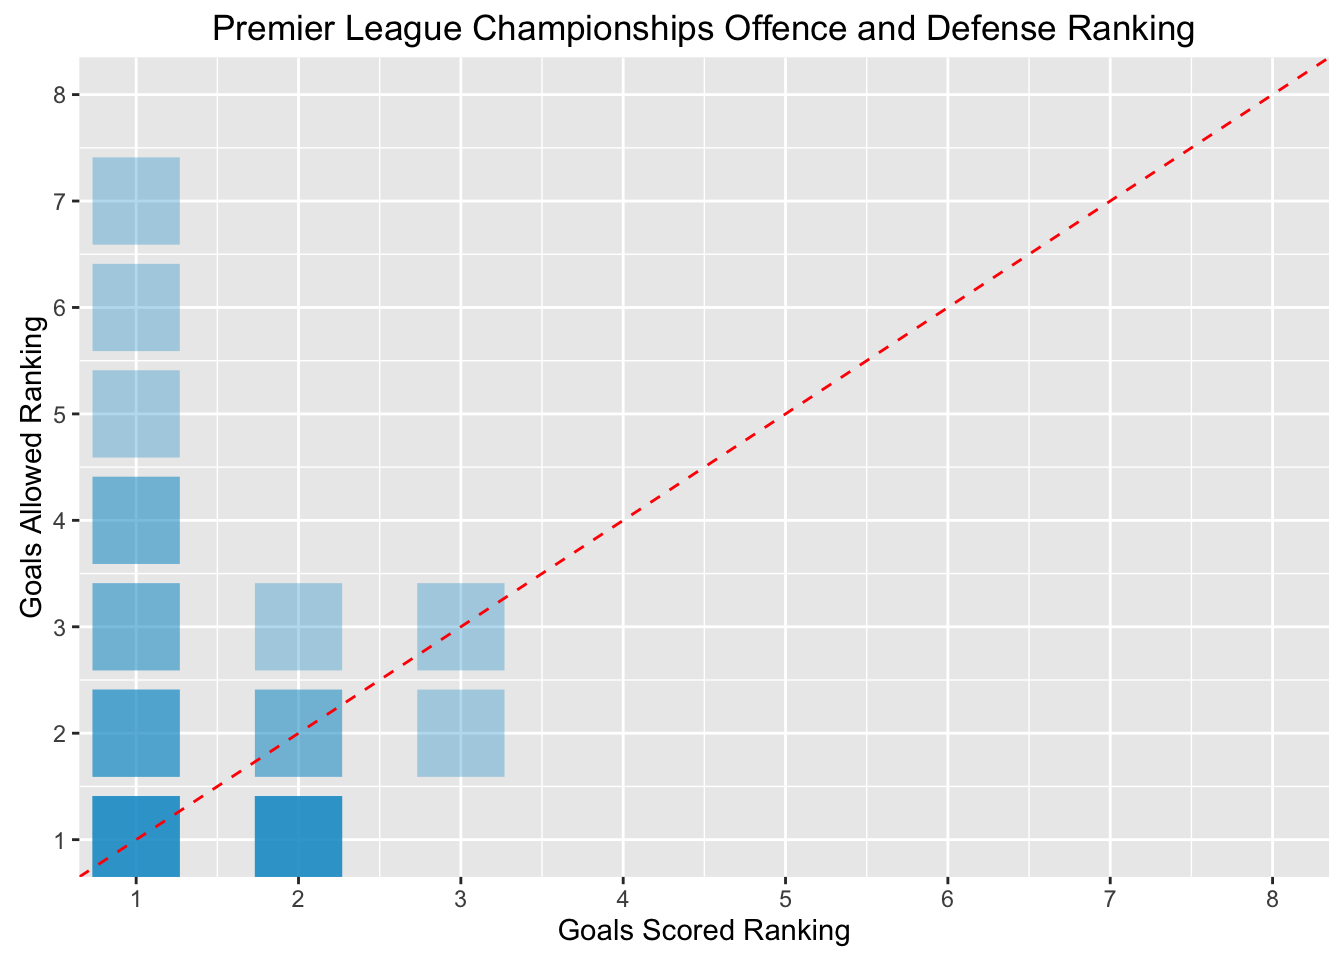
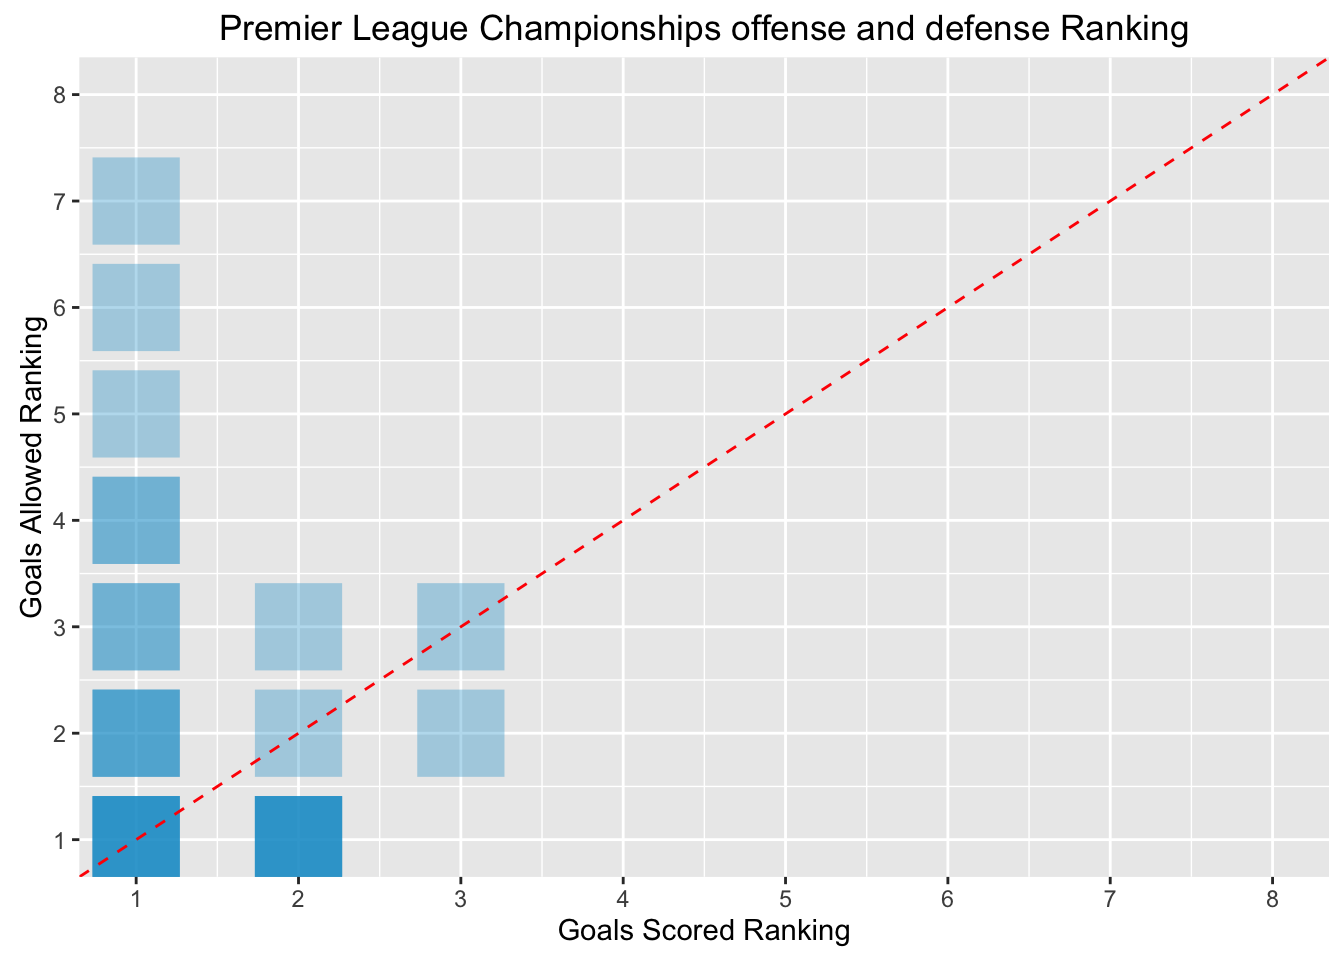
finish premier league one

Changed region(s): [[0.1562, 0.0, 0.6562, 0.0625], [0.6875, 0.0, 0.9062, 0.0625], [0.1875, 0.7188, 0.2812, 0.8125]]

diff --git a/2017/05/optimal-stopping-in-speed-dating/index.html b/2017/05/optimal-stopping-in-speed-dating/index.html
@@ -28,15 +28,15 @@
     
 
     
-    <meta name="description" content="I came across this question when I was reading the first chapter of the book ‘Algorithms to Live By’. It’s a famous problem that uses the optimal stopping theory. The problem has been studied extensively in the fields of statics, decision theory and applied probability. It’s also known as secretary problem, marriage problem and the best choice problem.In any optimal problem, the crucial dilemma is not which option to pick, but how many options to even consider.">
-    <meta property="og:description" content="I came across this question when I was reading the first chapter of the book ‘Algorithms to Live By’. It’s a famous problem that uses the optimal stopping theory. The problem has been studied extensively in the fields of statics, decision theory and applied probability. It’s also known as secretary problem, marriage problem and the best choice problem.In any optimal problem, the crucial dilemma is not which option to pick, but how many options to even consider.">
+    <meta name="description" content="I came across this question when I was reading the first chapter of the book ‘Algorithms to Live By’. It’s a famous problem that uses the optimal stopping theory. The problem has been studied extensively in the fields of statistics, decision theory and applied probability. It’s also known as secretary problem, marriage problem and the best choice problem.In any optimal problem, the crucial dilemma is not which option to pick, but how many options to even consider.">
+    <meta property="og:description" content="I came across this question when I was reading the first chapter of the book ‘Algorithms to Live By’. It’s a famous problem that uses the optimal stopping theory. The problem has been studied extensively in the fields of statistics, decision theory and applied probability. It’s also known as secretary problem, marriage problem and the best choice problem.In any optimal problem, the crucial dilemma is not which option to pick, but how many options to even consider.">
     <meta property="og:type" content="blog">
     <meta property="og:title" content="Optimal Stopping in Speed Dating">
     <meta property="og:url" content="/2017/05/optimal-stopping-in-speed-dating/">
     <meta property="og:site_name" content="Yang&#39;s Den">
     <meta name="twitter:card" content="summary">
     <meta name="twitter:title" content="Yang&#39;s Den">
-    <meta name="twitter:description" content="I came across this question when I was reading the first chapter of the book ‘Algorithms to Live By’. It’s a famous problem that uses the optimal stopping theory. The problem has been studied extensively in the fields of statics, decision theory and applied probability. It’s also known as secretary problem, marriage problem and the best choice problem.In any optimal problem, the crucial dilemma is not which option to pick, but how many options to even consider.">
+    <meta name="twitter:description" content="I came across this question when I was reading the first chapter of the book ‘Algorithms to Live By’. It’s a famous problem that uses the optimal stopping theory. The problem has been studied extensively in the fields of statistics, decision theory and applied probability. It’s also known as secretary problem, marriage problem and the best choice problem.In any optimal problem, the crucial dilemma is not which option to pick, but how many options to even consider.">
     
     
 
@@ -229,7 +229,7 @@
           
           <div class="post-content markdown" itemprop="articleBody">
             <div class="main-content-wrap">
-              <p>I came across this question when I was reading the first chapter of the book ‘Algorithms to Live By’. It’s a famous problem that uses the optimal stopping theory. The problem has been studied extensively in the fields of statics, decision theory and applied probability. It’s also known as secretary problem, marriage problem and the best choice problem.In any optimal problem, the crucial dilemma is not which option to <em>pick</em>, but how many options to even <em>consider</em>. The problem proved to be a near-perfect mathematical puzzle: simple to explain, devilish to solve, succinct in its answer, and intriguing in its implications. I am going to present this problem under the speed dating scenario for easier understanding and use simulation to find the answer.</p>
+              <p>I came across this question when I was reading the first chapter of the book ‘Algorithms to Live By’. It’s a famous problem that uses the optimal stopping theory. The problem has been studied extensively in the fields of statistics, decision theory and applied probability. It’s also known as secretary problem, marriage problem and the best choice problem.In any optimal problem, the crucial dilemma is not which option to <em>pick</em>, but how many options to even <em>consider</em>. The problem proved to be a near-perfect mathematical puzzle: simple to explain, devilish to solve, succinct in its answer, and intriguing in its implications. I am going to present this problem under the speed dating scenario for easier understanding and use simulation to find the answer.</p>
 <!--more-->
 <div id="introduction" class="section level2">
 <h2>Introduction</h2>
@@ -282,7 +282,7 @@ qplot(x = simulations, y = result, geom = c(&quot;point&quot;, &quot;line&quot;)
 </div>
 <div id="whence-37" class="section level2">
 <h2>Whence 37% ?</h2>
-<p><em>This part is from the book Algorithms to Live By by Brian Christian and Tom Griffiths</em></p>
+<p><em>This part is from the book “Algorithms to Live By” by Brian Christian and Tom Griffiths</em></p>
 <p>In your search for a lover, there are two ways you can fail: stopping earily, you leave the best choice undiscovered. When you stop too late, you hold out for a better choice who doesn’t exist. The optimal strategy will clearly require finding the right balance between the two, walking the tightrope between looking too much and not enough.</p>
 <p>Intuitively, there are a few potential strategies. For instance, making an offer the third time an applicant trumps eveyone seen so far- or maybe the fourth time. Or perhaps taking the next best-yet applicant to come along after a long drought. But as it happens, neither of these relatively sensible strategies comes out on top. Instead, the optimal solution takes the form of what we’ll call the <strong>Look-Then-Leap-Rule</strong>. You set a predetermined amount of time for “looking” - that is, exploring your options, gathering data - in which you categorically don’t choose anyone, no matter how impressive. After that point, you enter the “leap” phase, prepared to instantly commit to anyone who outshines the best applicant you saw in the look phase.</p>
 </div>
@@ -521,7 +521,7 @@ qplot(x = simulations, y = result, geom = c(&quot;point&quot;, &quot;line&quot;)
                   May 5, 2017
                 </span>
               </span>
-              <div class="media-content hide-xs font-merryweather">I came across this question when I was reading the first chapter of the book ‘Algorithms to Live By’. It’s a famous problem that uses the optimal stopping theory. The problem has been studied extensively in the fields of statics, decision theory and applied probability. It’s also known as secretary problem, marriage problem and the best choice problem.In any optimal problem, the crucial dilemma is not which option to pick, but how many options to even consider.</div>
+              <div class="media-content hide-xs font-merryweather">I came across this question when I was reading the first chapter of the book ‘Algorithms to Live By’. It’s a famous problem that uses the optimal stopping theory. The problem has been studied extensively in the fields of statistics, decision theory and applied probability. It’s also known as secretary problem, marriage problem and the best choice problem.In any optimal problem, the crucial dilemma is not which option to pick, but how many options to even consider.</div>
             </div>
             <div style="clear:both;"></div>
             <hr>

diff --git a/2017/04/an-analysis-of-premier-league-in-r/index.html b/2017/04/an-analysis-of-premier-league-in-r/index.html
@@ -347,9 +347,9 @@ pl_rank  %&gt;%
 </div>
 <div id="analysis" class="section level2">
 <h2>Analysis</h2>
-<div id="could-defense-win-championships" class="section level3">
-<h3>Could Defense win championships ?</h3>
-<p>In 2004, Greece won the European Championship with a defense first approach. They did manage to score in the process, but it was their defense that allowed them to claim the title. In addition, <strong>Jose Mourinho</strong> helped Inter Milan to win the 2010 Champions League by employing the so called ‘parking the bus’ strategy, avoiding attacking play and let all team chasing the ball in their half-court. Clearly, All of the examples I cited are in the tournament game. So I want to learn that if it’s possible for a team with an average offensive ability and outstanding defensive ability to win the premier league ?</p>
+<div id="could-defense-help-a-team-to-win-championships" class="section level3">
+<h3>Could defense help a team to win championships ?</h3>
+<p>In 2004, Greece won the European Championship with a defense first approach. They did manage to score in the process, but it was their defense that allowed them to claim the title. In addition, <strong>Jose Mourinho</strong> helped Inter Milan to win the 2010 Champions League by employing the so called ‘parking the bus’ strategy, avoiding attacking play and let all team chasing the ball in their half-court. Clearly, All of the examples I cited are in the tournament game. So I want to learn that if it’s possible for a team without explosive strikers but outstanding defensive still able to win the premier league ?</p>
 <p>I use the ranking of <strong>total goals a team has scored</strong> to evaluate the ability of its offense, In the same way, I used the ranking of <strong>total goals a team have been scored</strong> to evaluate the ability its defense</p>
 <pre class="r"><code>pl_team_overview &lt;- pl %&gt;%
            mutate(home_team_point = ifelse(hgoal &gt; vgoal, 3, ifelse(hgoal == vgoal, 1, 0))) %&gt;%
@@ -370,16 +370,16 @@ temp1$GA_Away &lt;- temp2$GA_Away
 pl_team_overview &lt;- temp1 %&gt;%
            mutate(total_points = home_points + away_points) %&gt;%
            mutate(GF = GF_Home + GF_Away) %&gt;%
-           mutate(GA = GA_Home + GA_Away)
+           mutate(GA = GA_Home + GA_Away) %&gt;%
+           mutate(goaldiff = GF - GA)
 
 pl_team_overview &lt;- pl_team_overview %&gt;%
            rename(Team = home) %&gt;%
            group_by(Season) %&gt;%
-           mutate(GF_ranking = rank(-GF, ties.method = &quot;min&quot;), GA_ranking = rank(GA, ties.method = &quot;min&quot;), points_ranking =
-                  rank(-total_points, ties.method = &quot;min&quot;))
+           mutate(GF_ranking = rank(-GF, ties.method = &quot;min&quot;), GA_ranking = rank(GA, ties.method = &quot;min&quot;), points_ranking = order(order(-total_points, -goaldiff)))
 
 
-# Plot the Offense and Defense Ranking of the Championship Team
+# Plot the offense and defense Ranking of the Championship Team
 pl_team_overview %&gt;%
                   filter(points_ranking == 1) %&gt;%
                   ggplot(aes(x = GF_ranking, y = GA_ranking)) +
@@ -387,16 +387,33 @@ pl_team_overview %&gt;%
                   geom_abline(intercept = 0, slope = 1, color=&quot;red&quot;, linetype=&quot;dashed&quot;) +
                   scale_x_continuous(name=&quot;Goals Scored Ranking&quot;, limits=c(1, 8), breaks = seq(1,8,1)) +
                   scale_y_continuous(name=&quot;Goals Allowed Ranking&quot;, limits=c(1, 8), breaks = seq(1,8,1)) +
-                  ggtitle(&#39;Premier League Championships Offence and Defense Ranking&#39;)</code></pre>
+                  ggtitle(&#39;Premier League Championships offense and defense Ranking&#39;)</code></pre>
 <p><img src="https://songyang0716.github.io/post/premier_league_analysis_files/figure-html/unnamed-chunk-5-1.png" width="672" /></p>
-<p>From the above plot, I noticed that most of the points cluster in the upper left part of the plot, which indicates all of past premier league championship teams at least have the top 3 offensive ability, on the other hand, their defensive ability may not be prestigious (Top 7)</p>
+<p>From the above plot, I noticed that most of the points cluster in the upper left part of the plot, which indicates all of past premier league championship teams at least have the top 3 offense, on the other hand, their defensive ability may not be prestigious (Top 7)</p>
 </div>
-<div id="could-defense-avoid-relegation" class="section level3">
-<h3>Could Defense avoid relegation ?</h3>
+<div id="could-defense-help-a-team-to-avoid-relegation" class="section level3">
+<h3>Could defense help a team to avoid relegation ?</h3>
+<p>Surviving Premier League relegation has always been lucrative, considering that teams staying afloat can retain around 100 million for the next season. Still, not eveyone can avoid the drop. So my question is that is it possible for a team with slightly above average defense but unproductive offense ensure survival ?</p>
+<pre class="r"><code># Plot the offense and defense Ranking of the Relegation Team
+relegation_team &lt;- pl_team_overview %&gt;%
+                          filter((Season %in% (1995:2016) &amp; points_ranking &gt;= 18) |
+                          (Season == 1992 &amp; points_ranking &gt;= 20) |
+                          (Season == 1993 &amp; points_ranking &gt;= 20) |
+                          (Season == 1994 &amp; points_ranking &gt;= 19)) %&gt;%
+                          select(Season, Team, GF_ranking, GA_ranking) %&gt;%
+                        rename(Offense = GF_ranking, Defense = GA_ranking)
+
+# Convert the dataframe from wide to long using tidyr package
+relegation_team_long &lt;- gather(relegation_team, Offense_or_Defense, ranking, Offense, Defense)
+
+relegation_team_long %&gt;%
+                ggplot(aes(x = ranking, fill = Offense_or_Defense)) +
+                geom_density(alpha = 0.4) +
+                scale_x_continuous(name=&quot;Ranking&quot;, limits=c(1, 22), breaks = seq(1,20,1)) +
+                ggtitle(&#39;Premier League Relegation Team&#39;)</code></pre>
+<p><img src="https://songyang0716.github.io/post/premier_league_analysis_files/figure-html/unnamed-chunk-6-1.png" width="672" /></p>
+<p>From the above plot, Relegation teams always did worse in both offense and defense side. In addition, I notice that defense has higher density in the lower ranking side of the plot, which infers the relegation teams have lower average defense ranking than offense ranking. However, the difference is not significant. On the other hand, The basic lesson is that competence on both offense and defense with a slightly above average performance in one of the two areas (ranking in top 8) is enough to gurantee survival</p>
 </div>
-</div>
-<div id="conclusion" class="section level2">
-<h2>Conclusion</h2>
 </div>
 
               
@@ -633,7 +650,7 @@ pl_team_overview %&gt;%
                   May 5, 2017
                 </span>
               </span>
-              <div class="media-content hide-xs font-merryweather">I came across this question when I was reading the first chapter of the book ‘Algorithms to Live By’. It’s a famous problem that uses the optimal stopping theory. The problem has been studied extensively in the fields of statics, decision theory and applied probability. It’s also known as secretary problem, marriage problem and the best choice problem.In any optimal problem, the crucial dilemma is not which option to pick, but how many options to even consider.</div>
+              <div class="media-content hide-xs font-merryweather">I came across this question when I was reading the first chapter of the book ‘Algorithms to Live By’. It’s a famous problem that uses the optimal stopping theory. The problem has been studied extensively in the fields of statistics, decision theory and applied probability. It’s also known as secretary problem, marriage problem and the best choice problem.In any optimal problem, the crucial dilemma is not which option to pick, but how many options to even consider.</div>
             </div>
             <div style="clear:both;"></div>
             <hr>

diff --git a/index.html b/index.html
@@ -235,7 +235,7 @@
     </div>
     <div class="postShorten-excerpt" itemprop="articleBody">
       <p>
-        I came across this question when I was reading the first chapter of the book ‘Algorithms to Live By’. It’s a famous problem that uses the optimal stopping theory. The problem has been studied extensively in the fields of statics, decision theory and applied probability. It’s also known as secretary problem, marriage problem and the best choice problem.In any optimal problem, the crucial dilemma is not which option to pick, but how many options to even consider.
+        I came across this question when I was reading the first chapter of the book ‘Algorithms to Live By’. It’s a famous problem that uses the optimal stopping theory. The problem has been studied extensively in the fields of statistics, decision theory and applied probability. It’s also known as secretary problem, marriage problem and the best choice problem.In any optimal problem, the crucial dilemma is not which option to pick, but how many options to even consider.
         <br>
         <a href="https://songyang0716.github.io/2017/05/optimal-stopping-in-speed-dating/" class="postShorten-excerpt_link link">Continue reading</a>
         
@@ -472,7 +472,7 @@
                   May 5, 2017
                 </span>
               </span>
-              <div class="media-content hide-xs font-merryweather">I came across this question when I was reading the first chapter of the book ‘Algorithms to Live By’. It’s a famous problem that uses the optimal stopping theory. The problem has been studied extensively in the fields of statics, decision theory and applied probability. It’s also known as secretary problem, marriage problem and the best choice problem.In any optimal problem, the crucial dilemma is not which option to pick, but how many options to even consider.</div>
+              <div class="media-content hide-xs font-merryweather">I came across this question when I was reading the first chapter of the book ‘Algorithms to Live By’. It’s a famous problem that uses the optimal stopping theory. The problem has been studied extensively in the fields of statistics, decision theory and applied probability. It’s also known as secretary problem, marriage problem and the best choice problem.In any optimal problem, the crucial dilemma is not which option to pick, but how many options to even consider.</div>
             </div>
             <div style="clear:both;"></div>
             <hr>

diff --git a/post/index.html b/post/index.html
@@ -235,7 +235,7 @@
     </div>
     <div class="postShorten-excerpt" itemprop="articleBody">
       <p>
-        I came across this question when I was reading the first chapter of the book ‘Algorithms to Live By’. It’s a famous problem that uses the optimal stopping theory. The problem has been studied extensively in the fields of statics, decision theory and applied probability. It’s also known as secretary problem, marriage problem and the best choice problem.In any optimal problem, the crucial dilemma is not which option to pick, but how many options to even consider.
+        I came across this question when I was reading the first chapter of the book ‘Algorithms to Live By’. It’s a famous problem that uses the optimal stopping theory. The problem has been studied extensively in the fields of statistics, decision theory and applied probability. It’s also known as secretary problem, marriage problem and the best choice problem.In any optimal problem, the crucial dilemma is not which option to pick, but how many options to even consider.
         <br>
         <a href="https://songyang0716.github.io/2017/05/optimal-stopping-in-speed-dating/" class="postShorten-excerpt_link link">Continue reading</a>
         
@@ -472,7 +472,7 @@
                   May 5, 2017
                 </span>
               </span>
-              <div class="media-content hide-xs font-merryweather">I came across this question when I was reading the first chapter of the book ‘Algorithms to Live By’. It’s a famous problem that uses the optimal stopping theory. The problem has been studied extensively in the fields of statics, decision theory and applied probability. It’s also known as secretary problem, marriage problem and the best choice problem.In any optimal problem, the crucial dilemma is not which option to pick, but how many options to even consider.</div>
+              <div class="media-content hide-xs font-merryweather">I came across this question when I was reading the first chapter of the book ‘Algorithms to Live By’. It’s a famous problem that uses the optimal stopping theory. The problem has been studied extensively in the fields of statistics, decision theory and applied probability. It’s also known as secretary problem, marriage problem and the best choice problem.In any optimal problem, the crucial dilemma is not which option to pick, but how many options to even consider.</div>
             </div>
             <div style="clear:both;"></div>
             <hr>

diff --git a/2017/04/a-review-of-spelling-correction/index.html b/2017/04/a-review-of-spelling-correction/index.html
@@ -562,7 +562,7 @@ def edit2(word):
                   May 5, 2017
                 </span>
               </span>
-              <div class="media-content hide-xs font-merryweather">I came across this question when I was reading the first chapter of the book ‘Algorithms to Live By’. It’s a famous problem that uses the optimal stopping theory. The problem has been studied extensively in the fields of statics, decision theory and applied probability. It’s also known as secretary problem, marriage problem and the best choice problem.In any optimal problem, the crucial dilemma is not which option to pick, but how many options to even consider.</div>
+              <div class="media-content hide-xs font-merryweather">I came across this question when I was reading the first chapter of the book ‘Algorithms to Live By’. It’s a famous problem that uses the optimal stopping theory. The problem has been studied extensively in the fields of statistics, decision theory and applied probability. It’s also known as secretary problem, marriage problem and the best choice problem.In any optimal problem, the crucial dilemma is not which option to pick, but how many options to even consider.</div>
             </div>
             <div style="clear:both;"></div>
             <hr>

diff --git a/2017/04/hello-world/index.html b/2017/04/hello-world/index.html
@@ -492,7 +492,7 @@
                   May 5, 2017
                 </span>
               </span>
-              <div class="media-content hide-xs font-merryweather">I came across this question when I was reading the first chapter of the book ‘Algorithms to Live By’. It’s a famous problem that uses the optimal stopping theory. The problem has been studied extensively in the fields of statics, decision theory and applied probability. It’s also known as secretary problem, marriage problem and the best choice problem.In any optimal problem, the crucial dilemma is not which option to pick, but how many options to even consider.</div>
+              <div class="media-content hide-xs font-merryweather">I came across this question when I was reading the first chapter of the book ‘Algorithms to Live By’. It’s a famous problem that uses the optimal stopping theory. The problem has been studied extensively in the fields of statistics, decision theory and applied probability. It’s also known as secretary problem, marriage problem and the best choice problem.In any optimal problem, the crucial dilemma is not which option to pick, but how many options to even consider.</div>
             </div>
             <div style="clear:both;"></div>
             <hr>

diff --git a/404.html b/404.html
@@ -134,7 +134,7 @@
                   May 5, 2017
                 </span>
               </span>
-              <div class="media-content hide-xs font-merryweather">I came across this question when I was reading the first chapter of the book ‘Algorithms to Live By’. It’s a famous problem that uses the optimal stopping theory. The problem has been studied extensively in the fields of statics, decision theory and applied probability. It’s also known as secretary problem, marriage problem and the best choice problem.In any optimal problem, the crucial dilemma is not which option to pick, but how many options to even consider.</div>
+              <div class="media-content hide-xs font-merryweather">I came across this question when I was reading the first chapter of the book ‘Algorithms to Live By’. It’s a famous problem that uses the optimal stopping theory. The problem has been studied extensively in the fields of statistics, decision theory and applied probability. It’s also known as secretary problem, marriage problem and the best choice problem.In any optimal problem, the crucial dilemma is not which option to pick, but how many options to even consider.</div>
             </div>
             <div style="clear:both;"></div>
             <hr>
